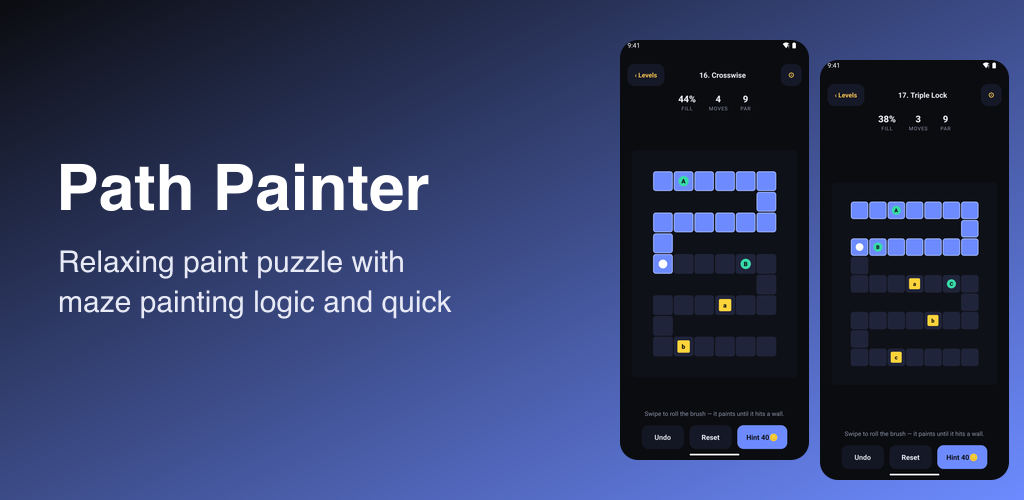
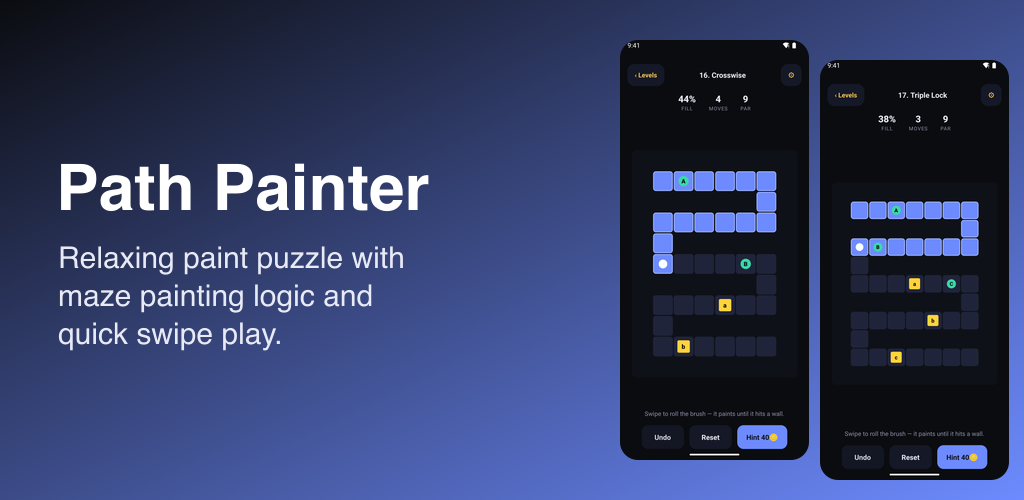
Release 1.0.3

Changed region(s): [[0.0312, 0.48, 0.4375, 0.69]]

diff --git a/docs/index.html b/docs/index.html
@@ -1,6 +1,6 @@
 <!doctype html>
 <html lang="en"><head><meta charset="utf-8"><meta name="viewport" content="width=device-width,initial-scale=1">
-<title>Path Painter - paint puzzle</title>
+<title>Path Painter - Paint Puzzle</title>
 <style>
 :root{--bg:#0b0c10;--fg:#e7e9f0;--muted:#8b90a6;--accent:#6d8bff}
 body{margin:0;background:var(--bg);color:var(--fg);font:16px/1.6 system-ui,-apple-system,sans-serif}
@@ -10,7 +10,7 @@ a{color:var(--accent)} h1{font-size:28px;margin:0 0 8px} h2{font-size:19px;margi
 .shots img{height:360px;border-radius:12px} .icon{width:96px;height:96px;border-radius:22px}
 footer{margin-top:48px;font-size:14px;color:var(--muted)}
 </style></head><body><main><img class="icon" src="assets/icon.png" alt="">
-<h1>Path Painter - paint puzzle</h1><p class="muted">Relaxing paint puzzle with maze painting logic and quick swipe play.</p>
+<h1>Path Painter - Paint Puzzle</h1><p class="muted">Relaxing paint puzzle with maze painting logic and quick swipe play.</p>
 <p><a href="https://play.google.com/store/apps/details?id=com.jeetech.g001">Get it on Google Play</a></p>
 <div class="shots"><img src="assets/shot_1.png" alt=""><img src="assets/shot_2.png" alt=""><img src="assets/shot_3.png" alt=""><img src="assets/shot_4.png" alt=""><img src="assets/shot_5.png" alt=""></div>
 <p>Paint puzzle fans, meet Path Painter—a soothing swipe-to-paint challenge with smart gate logic and quick, satisfying levels. Glide your finger to coat every tile, unlock color-coded doors in sequence, and outthink switches, one-way paths, and crumble floors.<br><br>How it plays<br>Plan your route, then swipe to leave a smooth, grid-snapped trail of paint. Fill required colors to trigger gates, tap switches to re-route, and keep your flow alive. Short stages make it perfect for a 1–3 minute break while still delivering meaningful strategy.<br><br>What makes it special<br>• Satisfying swipe feel: crisp haptics, soft brush sounds, and luscious paint trails<br>• Gate sequencing: unlock doors in the right order for elegant solutions<br>• Accessible by design: high-contrast mode, colorblind palettes, and pattern overlays<br>• Optional pressure: chill zen play or tackle gentle timers for extra stars<br>• Offline-friendly: play anywhere, no connection required<br><br>Features you’ll enjoy<br>• 100+ handcrafted stages at launch, with more in updates<br>• Clear difficulty curve: learn basics, then master switches, bridges, one-way tiles, and crumble floors<br>• Intuitive touch controls: swipe to paint, tap to toggle, hold to preview turns<br>• Helpful tools: free 1-step undo, resets anytime, optional hints when you’re stuck<br>• Daily Puzzle: a fresh handcrafted challenge to keep your streak going<br>• Earn and spend coins for hints, extra undos, and cozy cosmetics (brush skins, trails, backgrounds)<br>• Fair ads and light IAP: remove ads option and cosmetic bundles—no pay-to-win<br><br>Progression and goals<br>Collect stars by finishing levels efficiently—based on time, moves, and bonus tiles—and unlock new chapters on the world map. Hit milestones to earn boosters like Slow Time or Ghost Path previews. Cosmetic rewards let you personalize your brush and trail without affecting gameplay.<br><br>Accessibility and polish<br>Every puzzle remains readable without relying on color alone thanks to pattern overlays on paint, gates, and sources. Haptic ticks and soft audio cues reinforce each move, while ambient music keeps the mood calm and focused.<br><br>ASO notes you care about<br>If you love maze painting challenges, this swipe paint puzzle blends relaxing flow with thoughtful planning. Prefer a color fill game you can enjoy offline? Path Painter is built for bite-sized sessions with depth that grows as you learn. Fans of color fill games will appreciate clean visuals, quick stages, and satisfying completion splashes.<br><br>Play now<br>Unwind with a clean, cozy paint puzzle that respects your time and rewards your smarts. Swipe, sequence, and solve—your next perfect path is one move away.</p>

diff --git a/docs/terms.html b/docs/terms.html
@@ -1,6 +1,6 @@
 <!doctype html>
 <html lang="en"><head><meta charset="utf-8"><meta name="viewport" content="width=device-width,initial-scale=1">
-<title>Path Painter - paint puzzle — Terms of Use</title>
+<title>Path Painter - Paint Puzzle — Terms of Use</title>
 <style>
 :root{--bg:#0b0c10;--fg:#e7e9f0;--muted:#8b90a6;--accent:#6d8bff}
 body{margin:0;background:var(--bg);color:var(--fg);font:16px/1.6 system-ui,-apple-system,sans-serif}
@@ -9,8 +9,8 @@ a{color:var(--accent)} h1{font-size:28px;margin:0 0 8px} h2{font-size:19px;margi
 .muted{color:var(--muted)} .shots{display:flex;gap:12px;overflow-x:auto;padding:8px 0}
 .shots img{height:360px;border-radius:12px} .icon{width:96px;height:96px;border-radius:22px}
 footer{margin-top:48px;font-size:14px;color:var(--muted)}
-</style></head><body><main><h1>Terms of Use</h1><p class="muted">Path Painter - paint puzzle · JeeTech · last updated 2026-10-17</p>
-<p>By downloading or playing Path Painter - paint puzzle you agree to these terms.</p>
+</style></head><body><main><h1>Terms of Use</h1><p class="muted">Path Painter - Paint Puzzle · JeeTech · last updated 2026-10-17</p>
+<p>By downloading or playing Path Painter - Paint Puzzle you agree to these terms.</p>
 <h2>Licence</h2><p>We grant you a personal, non-transferable licence to use the game on devices you own or control, for non-commercial entertainment.</p>
 <h2>Virtual items</h2><p>Coins and other virtual items have no real-world value, cannot be exchanged for money, and are licensed to you for use within the game only.</p>
 <h2>Purchases</h2><p>Purchases are made through Google Play and are subject to Google Play's terms and refund policy. “Remove Ads” removes interstitial and banner ads; optional rewarded ads stay available.</p>

diff --git a/docs/privacy.html b/docs/privacy.html
@@ -1,6 +1,6 @@
 <!doctype html>
 <html lang="en"><head><meta charset="utf-8"><meta name="viewport" content="width=device-width,initial-scale=1">
-<title>Path Painter - paint puzzle — Privacy Policy</title>
+<title>Path Painter - Paint Puzzle — Privacy Policy</title>
 <style>
 :root{--bg:#0b0c10;--fg:#e7e9f0;--muted:#8b90a6;--accent:#6d8bff}
 body{margin:0;background:var(--bg);color:var(--fg);font:16px/1.6 system-ui,-apple-system,sans-serif}
@@ -9,8 +9,8 @@ a{color:var(--accent)} h1{font-size:28px;margin:0 0 8px} h2{font-size:19px;margi
 .muted{color:var(--muted)} .shots{display:flex;gap:12px;overflow-x:auto;padding:8px 0}
 .shots img{height:360px;border-radius:12px} .icon{width:96px;height:96px;border-radius:22px}
 footer{margin-top:48px;font-size:14px;color:var(--muted)}
-</style></head><body><main><h1>Privacy Policy</h1><p class="muted">Path Painter - paint puzzle (com.jeetech.g001) · JeeTech · last updated 2026-10-17</p>
-<p>This policy explains what information Path Painter - paint puzzle (“the game”) and the services it uses collect, and how it is used.</p>
+</style></head><body><main><h1>Privacy Policy</h1><p class="muted">Path Painter - Paint Puzzle (com.jeetech.g001) · JeeTech · last updated 2026-10-17</p>
+<p>This policy explains what information Path Painter - Paint Puzzle (“the game”) and the services it uses collect, and how it is used.</p>
 <h2>Information we collect</h2>
 <p>We do not ask you to create an account and we do not collect your name, email address, contacts, photos or location. Your game progress (level, coins, purchases unlocked) is stored only on your device.</p>
 <h2>Advertising (Google AdMob)</h2>

diff --git a/README.md b/README.md
@@ -1,4 +1,4 @@
-# Path Painter - paint puzzle
+# Path Painter - Paint Puzzle
 
 Relaxing paint puzzle with maze painting logic and quick swipe play.
 
